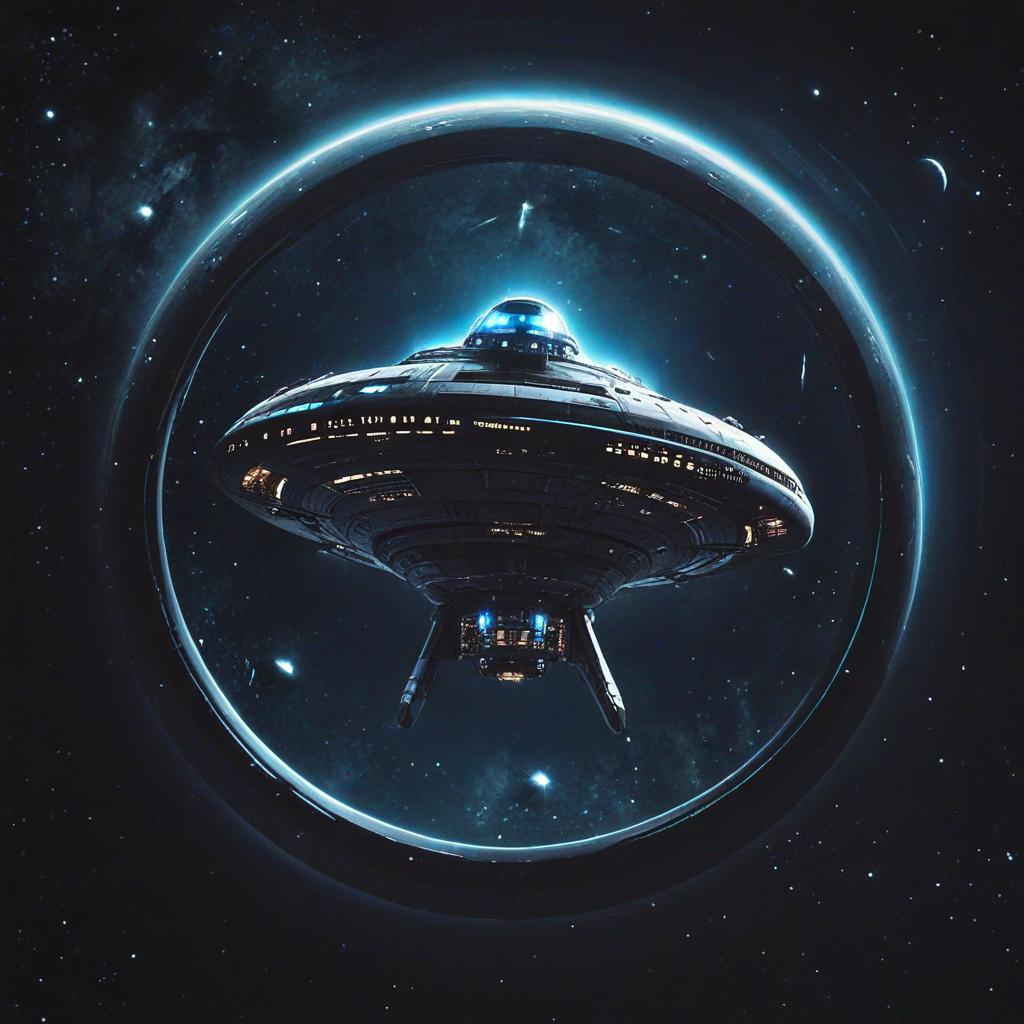
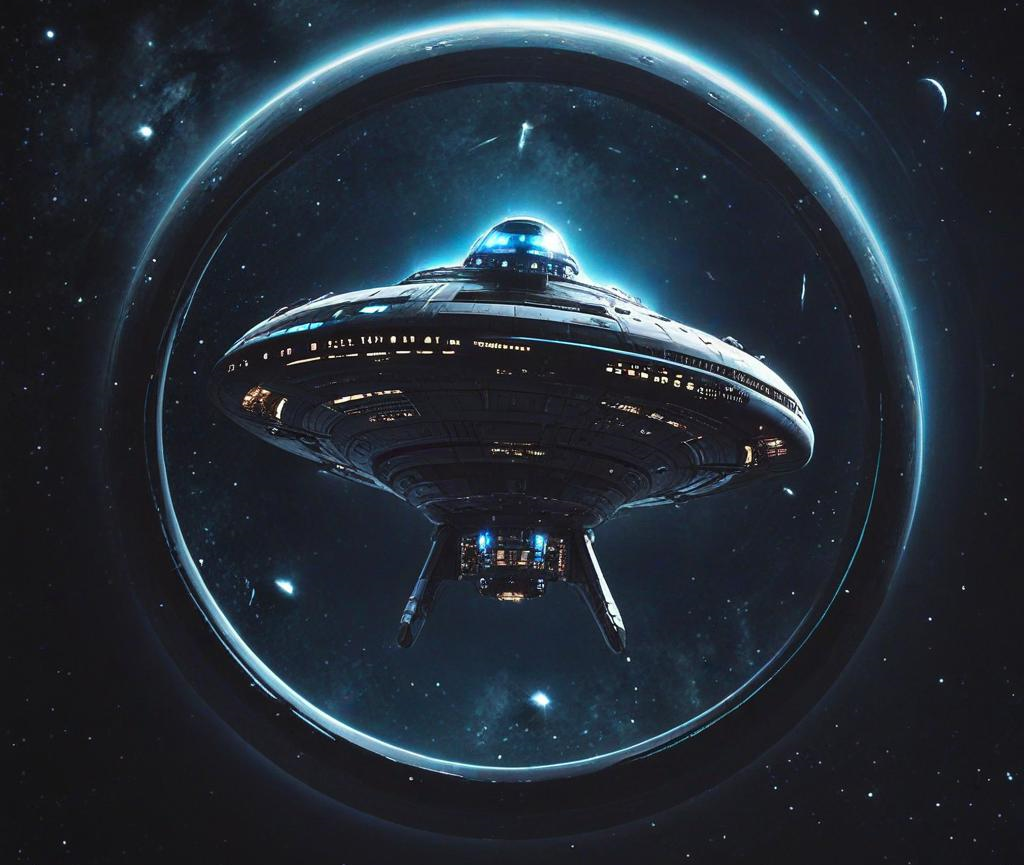
gaia

diff --git a/stile.css b/stile.css
@@ -800,6 +800,7 @@ input[type="text"],input[type="password"]{
 
 .card-navicelle__img img{
     width: 100%;
+    height: 200px;
 }
 
 .card-navicelle__testo{

diff --git a/pagine/nav.php b/pagine/nav.php
@@ -19,7 +19,7 @@
             <?php
                 if(basename($_SERVER["PHP_SELF"]) == "index.php"){
                     echo "<li><a id='active'>Home</a></li>";
-                    echo "<li><a href='pagine/pianeti.php'>Pianeti</a></li>";
+                    echo "<li><a href='pagine/pianeti.php'>Prenota</a></li>";
                     echo "<li><a href='pagine/chi siamo.php'>Chi siamo</a></li>";
                     echo "<li><a href='pagine/contatti.php'>Contatti</a></li>";
                     echo "<li><a href='pagine/login.php'>Login</a></li>";
@@ -28,7 +28,7 @@
                     echo "<li><a href='pagine/riconsegna.php'>Riconsegna</a></li>";
                 } elseif(basename($_SERVER["PHP_SELF"]) == "giove.php" or basename($_SERVER["PHP_SELF"]) == "marte.php" or basename($_SERVER["PHP_SELF"]) == "mercurio.php" or basename($_SERVER["PHP_SELF"]) == "nettuno.php" or basename($_SERVER["PHP_SELF"]) == "saturno.php" or basename($_SERVER["PHP_SELF"]) == "sole.php" or basename($_SERVER["PHP_SELF"]) == "terra.php" or basename($_SERVER["PHP_SELF"]) == "urano.php" or basename($_SERVER["PHP_SELF"]) == "venere.php"){
                     echo "<li><a href='../index.php'>Home</a></li>";
-                    echo "<li><a href='pianeti.php'>Pianeti</a></li>";
+                    echo "<li><a href='pianeti.php'>Prenota</a></li>";
                     echo "<li><a href='chi siamo.php'>Chi siamo</a></li>";
                     echo "<li><a href='contatti.php'>Contatti</a></li>";
                     echo "<li><a href='login.php'>Login</a></li>";
@@ -39,9 +39,9 @@
                 } else{
                     echo "<li><a href='../index.php'>Home</a></li>";
                     if(basename($_SERVER["PHP_SELF"]) == "pianeti.php"){
-                        echo "<li><a id='active'>Pianeti</a></li>";
+                        echo "<li><a id='active'>Prenota</a></li>";
                     } else{
-                        echo "<li><a href='pianeti.php'>Pianeti</a></li>";
+                        echo "<li><a href='pianeti.php'>Prenota</a></li>";
                     }
                     if(basename($_SERVER["PHP_SELF"]) == "chisiamo.php"){
                         echo "<li><a id='active'>Chi siamo</a></li>";
